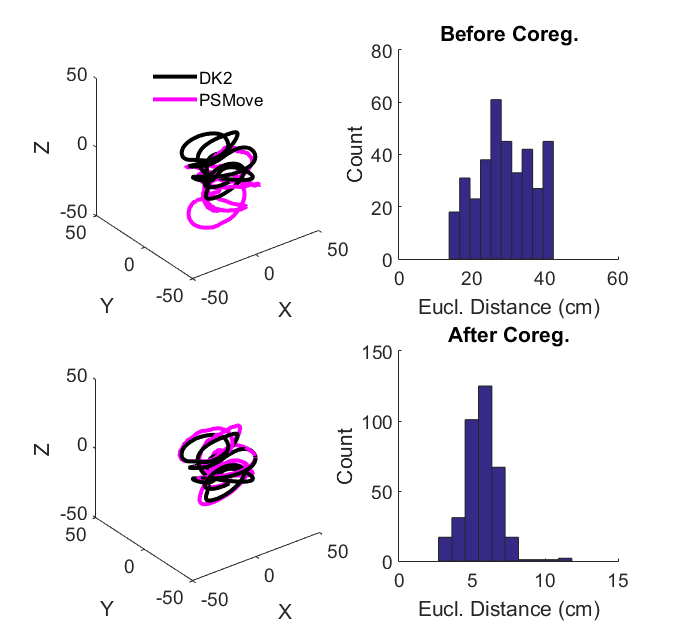
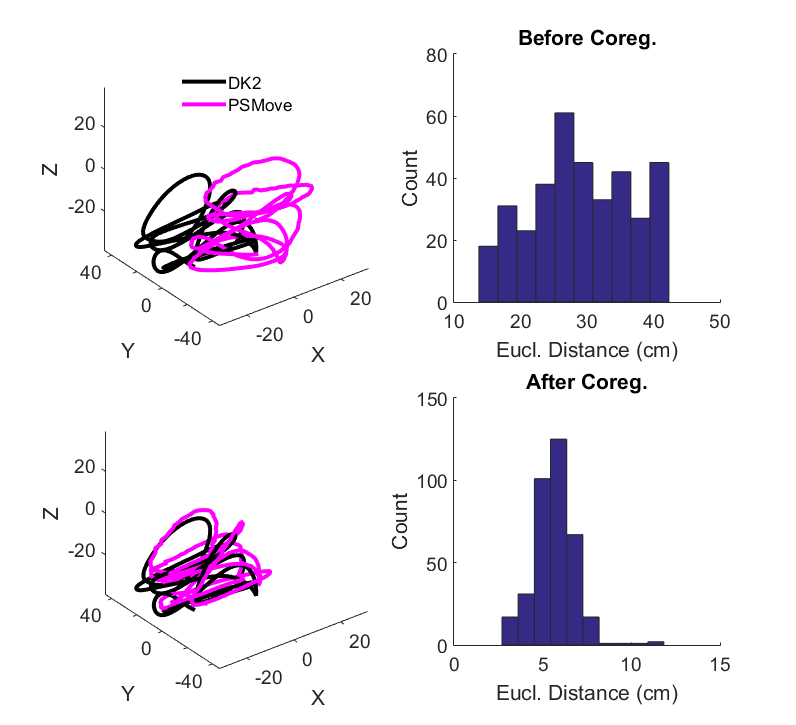
Swapped y,z axes when plotting to be more intuitive.

diff --git a/matlab/test.m b/matlab/test.m
@@ -29,14 +29,18 @@ clear A b p h RMi Ti x
 
 %% Plot the result
 dk2_xyz = [poses.dk2_px, poses.dk2_py, poses.dk2_pz]';
-psm_xyz = [poses.psm_px, poses.psm_py, poses.psm_pz]';
+psm_xyz = [poses.psm_px, poses.psm_py,  poses.psm_pz]';
+lims = max([abs(psm_xyz)'; abs(dk2_xyz)']);
 subplot(2,2,1)
-plot3(dk2_xyz(1,:), dk2_xyz(2,:), dk2_xyz(3,:), 'k',...
-    psm_xyz(1,:), psm_xyz(2,:), psm_xyz(3,:), 'm',...
+plot3(dk2_xyz(1,:), dk2_xyz(3,:), dk2_xyz(2,:), 'k',...
+    psm_xyz(1,:), psm_xyz(3,:), psm_xyz(2,:), 'm',...
     'LineWidth', 3)
 xlabel('X')
 ylabel('Y')
 zlabel('Z')
+xlim([-lims(1) lims(1)]);
+ylim([-lims(2) lims(2)]);
+zlim([-lims(3) lims(3)]);
 legend('DK2', 'PSMove', 'Location', 'North')
 legend('boxoff')
 set(gca, 'FontSize', 14)
@@ -52,20 +56,23 @@ set(gca, 'FontSize', 14)
 title('Before Coreg.')
 box off
 
-psm_xyz = globalxfm * [psm_xyz; ones(1, n)];
+tpsm_xyz = globalxfm * [psm_xyz; ones(1, n)];
 subplot(2,2,3)
-plot3(poses.dk2_px, poses.dk2_py, poses.dk2_pz, 'k',...
-    psm_xyz(1,:), psm_xyz(2,:), psm_xyz(3,:), 'm',...
+plot3(dk2_xyz(1,:), dk2_xyz(3,:), dk2_xyz(2,:), 'k',...
+    tpsm_xyz(1,:), tpsm_xyz(3,:), tpsm_xyz(2,:), 'm',...
     'LineWidth', 3)
 xlabel('X')
 ylabel('Y')
 zlabel('Z')
+xlim([-lims(1) lims(1)]);
+ylim([-lims(2) lims(2)]);
+zlim([-lims(3) lims(3)]);
 set(gca, 'FontSize', 14)
 set(gca, 'Color', 'none')
 set(gca, 'CameraViewAngle', 8.7)
 
 subplot(2,2,4)
-hist(sqrt(sum((dk2_xyz - psm_xyz).^2)));
+hist(sqrt(sum((dk2_xyz - tpsm_xyz).^2)));
 xlabel('Eucl. Distance (cm)')
 ylabel('Count')
 title('After Coreg.')
